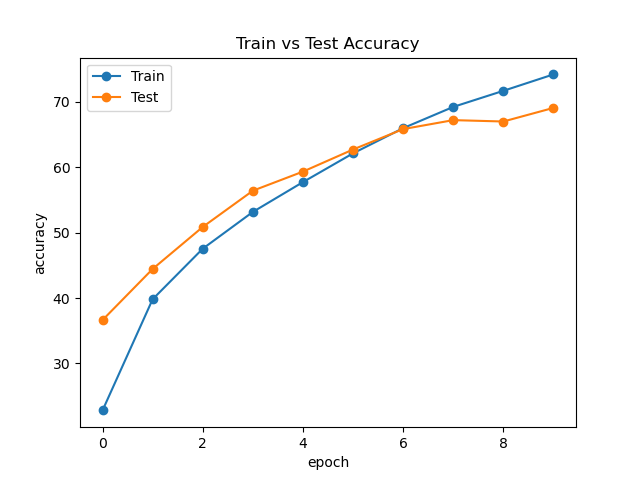
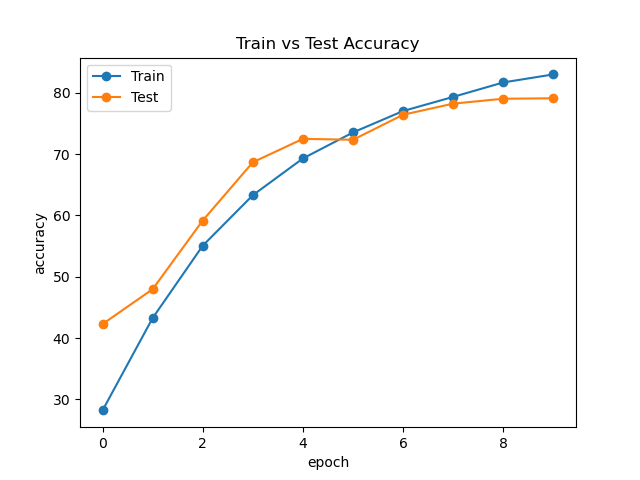
Learning Rate Scheduler Added

diff --git a/train_test.py b/train_test.py
@@ -1,9 +1,9 @@
-from pathlib import Path
+from os import TMP_MAX
 import torch
 import torch.nn as nn
 import numpy as np
 from optimizer import optim 
-import matplotlib.pyplot as plt
+from plot import trainTestPlot
 
 device = torch.device('cuda' if torch.cuda.is_available() else 'cpu')
 
@@ -28,11 +28,13 @@ class training:
 
         elif self.optimizer == 'sgd':
             optimizer = torch.optim.SGD(self.model.parameters(), lr=self.learning_rate)
+            scheduler = torch.optim.lr_scheduler.CosineAnnealingLR(optimizer, T_max=200)
         elif self.optimizer == 'adam':
             optimizer = torch.optim.Adam(self.model.parameters(), lr=self.learning_rate)
+            scheduler = torch.optim.lr_scheduler.ExponentialLR(optimizer, gamma=0.1)
         else:
             pass
-
+        
         train_losses = []
         train_accu = []
         test_losses = []
@@ -86,31 +88,12 @@ class training:
                         test_accuracy = (correct*100)/total
                     print('Epoch: %.0f | Test Loss: %.3f | Accuracy: %.3f'%(epoch+1, test_loss, test_accuracy)) 
 
-            if self.model_name in ['resnet']:
-                scheduler.step()
+            
+            scheduler.step()
 
             train_accu.append(train_accuracy)
             train_losses.append(train_loss)
             test_losses.append(test_loss)
             test_accu.append(test_accuracy)
-
-
-        if self.plot:
-            Path('plot/').mkdir(parents=True, exist_ok=True)
-            plot1 = plt.figure(1)
-            plt.plot(train_accu, '-o')
-            plt.plot(test_accu, '-o')
-            plt.xlabel('epoch')
-            plt.ylabel('accuracy')
-            plt.legend(['Train','Test'])
-            plt.title('Train vs Test Accuracy')            
-            plt.savefig('plot/'+self.model_name+'_train_test_acc.png')
-
-            plot2 = plt.figure(2)
-            plt.plot(train_losses,'-o')
-            plt.plot(test_losses,'-o')
-            plt.xlabel('epoch')
-            plt.ylabel('losses')
-            plt.legend(['Train','Test'])
-            plt.title('Train vs Test Losses')
-            plt.savefig('plot/'+self.model_name+'_train_test_loss.png')
+    
+        trainTestPlot(self.plot, train_accu, test_accu, train_losses, test_losses, self.model_name)

diff --git a/AlexNet.py b/AlexNet.py
@@ -29,13 +29,15 @@ class AlexNet(nn.Module):
 		super().__init__()
 		self.conv1 = nn.Sequential(
 			# transforming (bsize x 1 x 224 x 224) to (bsize x 96 x 54 x 54) 
-			#From floor((n_h - k_s + p + s)/s), floor((224 - 11 + 1 + 4) / 4) => floor(218/4) => floor(54.5) => 54
-			nn.Conv2d(input_channel, 96, kernel_size=11, stride=4, padding=3), #(batch_size * 96 * 54 * 54)
+			#From floor((n_h - k_s + p + s)/s), floor((224 - 11 + 3 + 4) / 4) => floor(219/4) => floor(55.5) => 55
+			nn.Conv2d(input_channel, 96, kernel_size=11, stride=4, padding=3), #(batch_size * 96 * 55 * 55)
 			nn.ReLU(inplace=True), #(batch_size * 96 * 55 * 55)
+			#nn.LocalResponseNorm(size=5, alpha=0.0001, beta=0.75, k=2),
 			nn.MaxPool2d(kernel_size=3, stride=2)) #(batch_size * 96 * 27 * 27)
 		self.conv2 = nn.Sequential(
 			nn.Conv2d(96, 256, kernel_size=5, padding=2), #(batch_size * 256 * 27 * 27)
 			nn.ReLU(inplace=True),
+			#nn.LocalResponseNorm(size=5, alpha=0.0001, beta=0.75, k=2),
 			nn.MaxPool2d(kernel_size=3, stride=2)) #(batch_size * 256 * 13 * 13)
 		self.conv3 = nn.Sequential(
 			nn.Conv2d(256, 384, kernel_size=3, padding=1), #(batch_size * 384 * 13 * 13)

diff --git a/plot.py b/plot.py
@@ -1,0 +1,24 @@
+from pathlib import Path
+import matplotlib.pyplot as plt
+
+def trainTestPlot(plot, train_accu, test_accu, train_losses, test_losses, model_name):
+
+    if plot:
+        Path('plot/').mkdir(parents=True, exist_ok=True)
+        plot1 = plt.figure(1)
+        plt.plot(train_accu, '-o')
+        plt.plot(test_accu, '-o')
+        plt.xlabel('epoch')
+        plt.ylabel('accuracy')
+        plt.legend(['Train','Test'])
+        plt.title('Train vs Test Accuracy')            
+        plt.savefig('plot/'+model_name+'_train_test_acc.png')
+
+        plot2 = plt.figure(2)
+        plt.plot(train_losses,'-o')
+        plt.plot(test_losses,'-o')
+        plt.xlabel('epoch')
+        plt.ylabel('losses')
+        plt.legend(['Train','Test'])
+        plt.title('Train vs Test Losses')
+        plt.savefig('plot/'+model_name+'_train_test_loss.png')

diff --git a/optimizer.py b/optimizer.py
@@ -1,9 +1,13 @@
 import torch
-from torch.optim.lr_scheduler import CosineAnnealingLR
+from torch.optim.lr_scheduler import CosineAnnealingLR, StepLR
 
 def optim(model_name, model, lr):
     if model_name == 'resnet':
         optimizer = torch.optim.SGD(model.parameters(), lr=lr, weight_decay=0.0001, momentum=0.9)
         scheduler = CosineAnnealingLR(optimizer, T_max=200)
         return optimizer, scheduler
-    
+    if model_name == 'alexnet':
+        """THIS SETTING DOESN'T WORK, IT RESULTS IN NAN"""
+        optimizer = torch.optim.SGD(model.parameters(), lr=lr, weight_decay=0.0005, momentum=0.9)
+        scheduler = CosineAnnealingLR(optimizer, T_max=200)
+        return optimizer, scheduler

diff --git a/dataset.py b/dataset.py
@@ -18,7 +18,7 @@ class initialize_dataset:
                                             transforms.Normalize((0.1307,), (0.3081,))])
         else:
             transform = transforms.Compose([transforms.ToTensor(), transforms.Resize((self.image_resolution, self.image_resolution)),
-                        transforms.Normalize(mean=[0.485, 0.456, 0.406], std=[0.229, 0.224, 0.225])])
+                        transforms.RandomHorizontalFlip(), transforms.Normalize(mean=[0.485, 0.456, 0.406], std=[0.229, 0.224, 0.225])])
 
         if self.MNIST:
             train_dataset = torchvision.datasets.MNIST(root=path, train=True,

diff --git a/README.md b/README.md
@@ -43,6 +43,10 @@ if you have any work around or else if something is missing, please do share you
 
 ### [Google Colab Notebook to tune hyperparameters with Weights and Biases Visualizations](https://colab.research.google.com/drive/1tIyEAbXcbRf4mKqXp2rqqQ6bOpTaPZKz?usp=sharing)
 
+### Plotting
+
+By default, the plots between train & test accuracy, train & test loss is stored in plot folder for each model. 
+
 ### Content
 
 <details>
